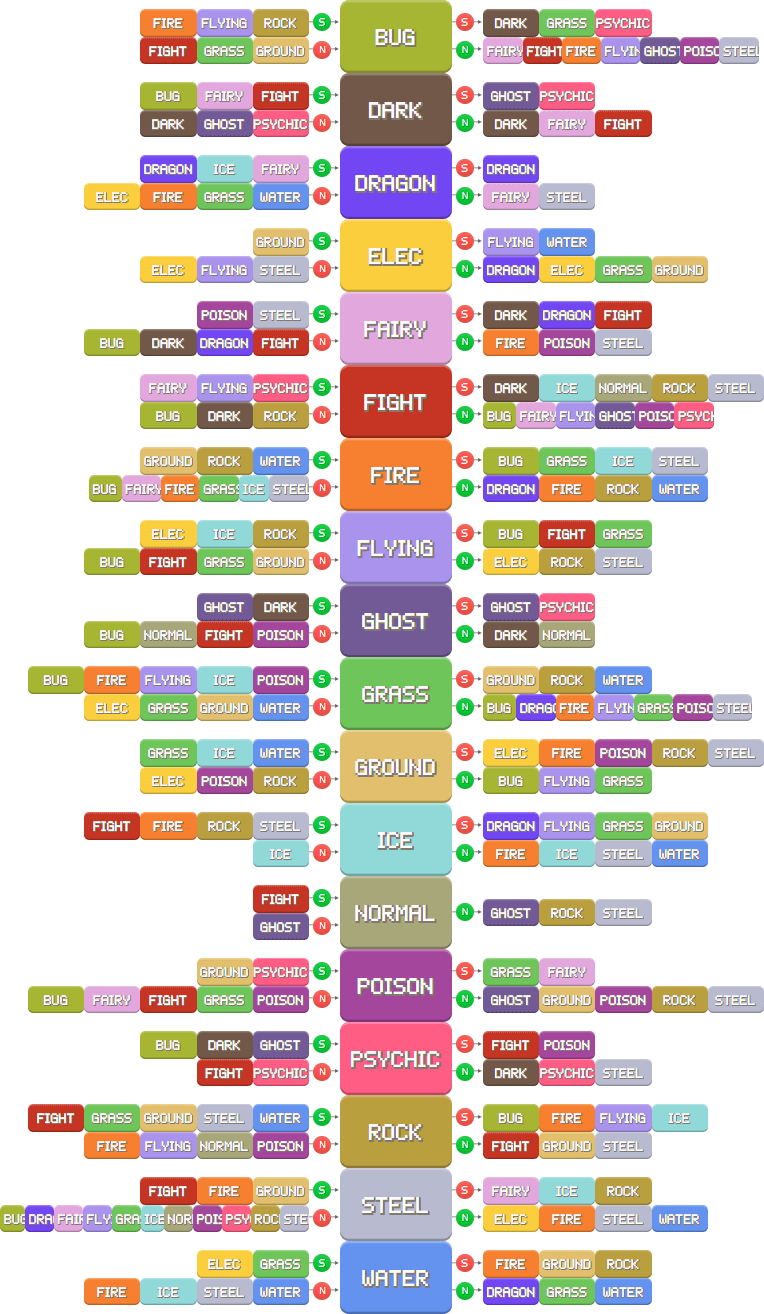
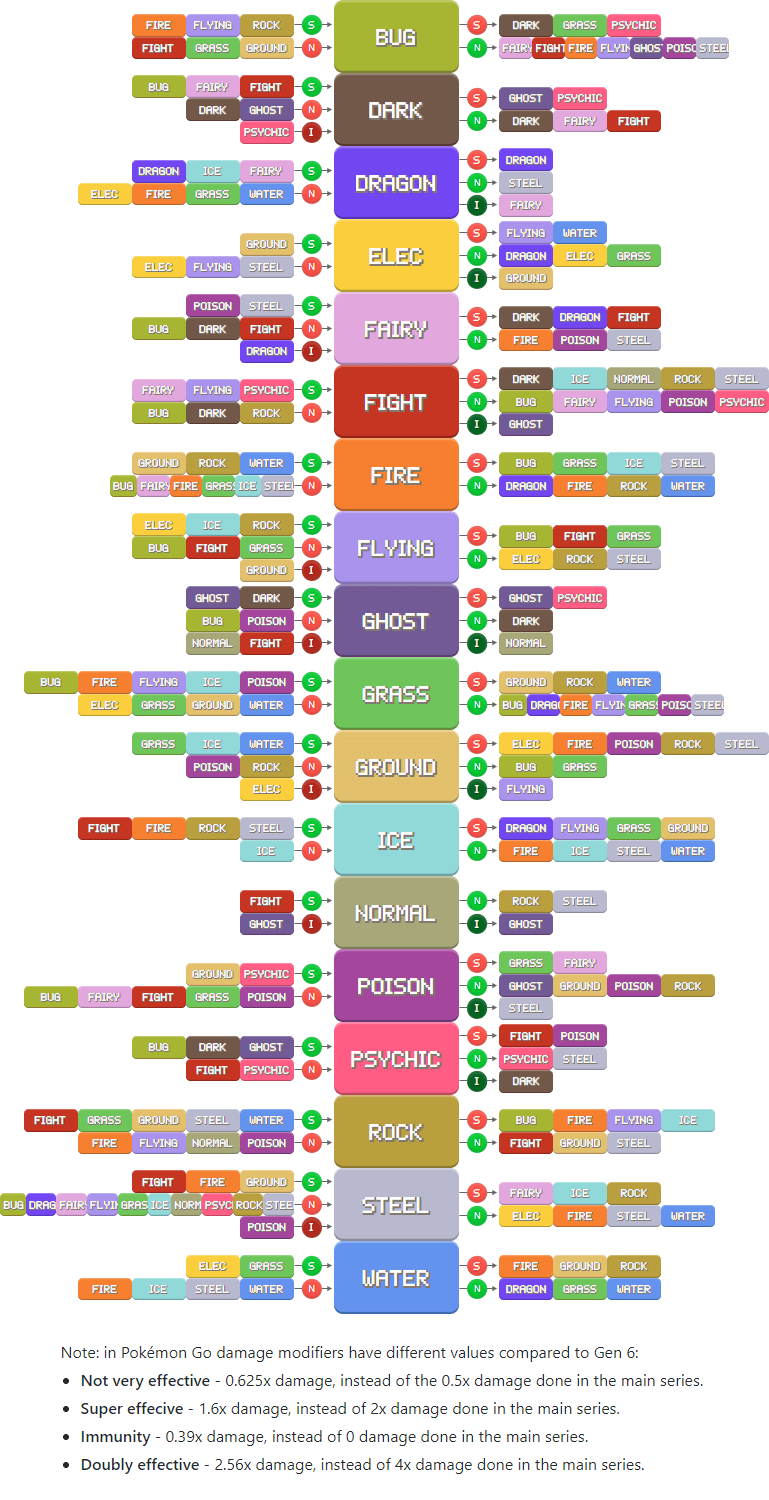
Update Readme and Downloadable images to reflect latest PoGo data

diff --git a/README.md b/README.md
@@ -11,6 +11,16 @@ Pokémon Go
 [Online version](https://karlbishop.github.io/pokemon-type-chart/)  
 [Downloadable image](https://karlbishop.github.io/pokemon-type-chart/images/pogo-pokemon-type-chart.png)
 
+*Note*: in Pokémon Go damage modifiers have different values compared to Gen 6 (Soure: [eurogamer.net](https://www.eurogamer.net/articles/2018-12-21-pokemon-go-type-chart-effectiveness-weaknesses)):
+- **Not very effective** - 0.625x damage, instead of the 0.5x damage done in the main series.
+- **Super effecive** - 1.6x damage, instead of 2x damage done in the main series.
+- **Immunity** - 0.39x damage, instead of 0 damage done in the main series.
+- **Doubly effective** - 2.56x damage, instead of 4x damage done in the main series.
+
+*Old Pokémon Go charts* (before immunities were added back in):  
+[Online version](https://karlbishop.github.io/pokemon-type-chart/pogo_old)  
+[Downloadable image](https://karlbishop.github.io/pokemon-type-chart/images/oldpogo-pokemon-type-chart.png)
+
 *Other good charts*:  
 ["Easier-to-understand version..." on 9GAG](http://9gag.com/gag/aD0DVpG/an-easier-to-understand-version-of-the-type-chart-of-pokemon)  
 [Pokémon Database](http://pokemondb.net/type)  
